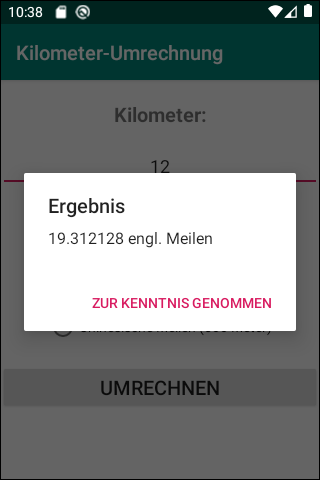
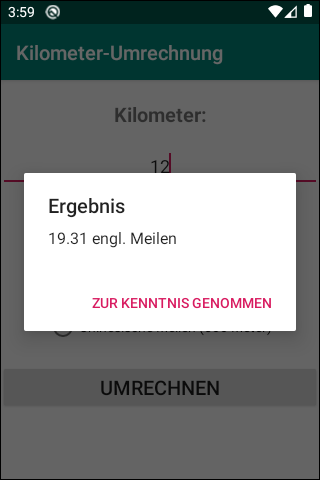
Ergebnis wird jetzt gerundet

Changed region(s): [[0.2812, 0.4688, 0.6562, 0.5312], [0.0312, 0.0, 0.2812, 0.0625]]

diff --git a/app/src/main/java/de/mide/kilometer_umrechnung/KilometerUmrechner.java b/app/src/main/java/de/mide/kilometer_umrechnung/KilometerUmrechner.java
@@ -1,6 +1,9 @@
 package de.mide.kilometer_umrechnung;
 
 
+import java.text.DecimalFormat;
+
+
 /**
  * Diese Klasse beinhaltet die Logik für die eigentliche Umrechnung von Kilometern
  * in Meilen.
@@ -94,7 +97,7 @@ public class KilometerUmrechner {
      */
     public String getMeilenEnglischAlsString() {
 
-        return getMeilenEnglisch() + " engl. Meilen";
+        return runden( getMeilenEnglisch() ) + " engl. Meilen";
     }
 
 
@@ -116,7 +119,7 @@ public class KilometerUmrechner {
      */
     public String getMeilenNautischAlsString() {
 
-        return getMeilenNautisch() + " nautische Meilen";
+        return runden( getMeilenNautisch() ) + " nautische Meilen";
     }
 
 
@@ -130,6 +133,7 @@ public class KilometerUmrechner {
         return _kilometer * UMRECHNUNGSFAKTOR_MEILEN_CHINESISCH;
     }
 
+
     /**
      * Umrechnung in chinesische Meilen.
      *
@@ -137,7 +141,21 @@ public class KilometerUmrechner {
      */
     public String getMeilenChinesischAlsString() {
 
-        return getMeilenChinesisch() + " chinesische Meilen";
+        return runden ( getMeilenChinesisch() ) + " chinesische Meilen";
+    }
+
+
+    /**
+     * Ergebnis in String umwandeln und Nachkommastellen abschneiden.
+     * Beispiel: meilen=19.312128, Ergebnis: 19.31
+     *
+     * @param meilen Ergebnis, das in String umzuwandeln
+     *
+     * @return  {@code meilen} als String, ggf. Nachkommastellen abgeschnitten.
+     */
+    private String runden(double meilen) {
+
+        return String.format("%.2f", meilen);
     }
 
 }

diff --git a/app/src/test/java/de/mide/kilometer_umrechnung/KilometerUmrechnerTest.java b/app/src/test/java/de/mide/kilometer_umrechnung/KilometerUmrechnerTest.java
@@ -173,34 +173,31 @@ public class KilometerUmrechnerTest {
 
         final double eingabeKilometer = 123.4;
 
-        final double erwartetesErgebnisEnglisch   = eingabeKilometer * 1.609344;
-        final double erwartetesErgebnisNautisch   = eingabeKilometer * 1.852;
-        final double erwartetesErgebnisChinesisch = eingabeKilometer * 0.5;
-
         double ergebnisDouble = 0.0;
         String ergebnisString = "";
 
         _cut = new KilometerUmrechner(eingabeKilometer);
 
+
         // Test für englische Meilen
         ergebnisDouble = _cut.getMeilenEnglisch();
         ergebnisString = _cut.getMeilenEnglischAlsString();
 
-        Assert.assertTrue( ergebnisString.startsWith( ergebnisDouble + "" ) );
+        Assert.assertTrue( ergebnisString.startsWith( (int) ergebnisDouble + "" ) );
 
 
         // Test für nautische Meilen
         ergebnisDouble = _cut.getMeilenNautisch();
         ergebnisString = _cut.getMeilenNautischAlsString();
 
-        Assert.assertTrue( ergebnisString.startsWith( ergebnisDouble + "" ) );
+        Assert.assertTrue( ergebnisString.startsWith( (int) ergebnisDouble + "" ) );
 
 
         // Test für chinesische Meilen
         ergebnisDouble = _cut.getMeilenChinesisch();
         ergebnisString = _cut.getMeilenChinesischAlsString();
 
-        Assert.assertTrue( ergebnisString.startsWith( ergebnisDouble + "" ) );
+        Assert.assertTrue( ergebnisString.startsWith( (int) ergebnisDouble + "" ) );
     }
 
 }

diff --git a/app/src/androidTest/java/de/mide/kilometer_umrechnung/MainActivityInstrumentedTest.java b/app/src/androidTest/java/de/mide/kilometer_umrechnung/MainActivityInstrumentedTest.java
@@ -65,8 +65,8 @@ public class MainActivityInstrumentedTest {
         // Kontrollieren, ob Dialog angezeigt wird
         onView( withText("Ergebnis") ).check( matches(isDisplayed()) );
 
-        // Ergebnis-Wert nur auf erste zwei Nachkommastellen prüfen
-        onView( withSubstring( "16.89") ).check( matches(isDisplayed()) );
+        // Ergebnis-Wert nur auf erste Nachkommastelle prüfen
+        onView( withSubstring( "16.9") ).check( matches(isDisplayed()) );
 
 
         // Dialog durch Klick auf Button "Zur Kenntnis genommen" schließen
